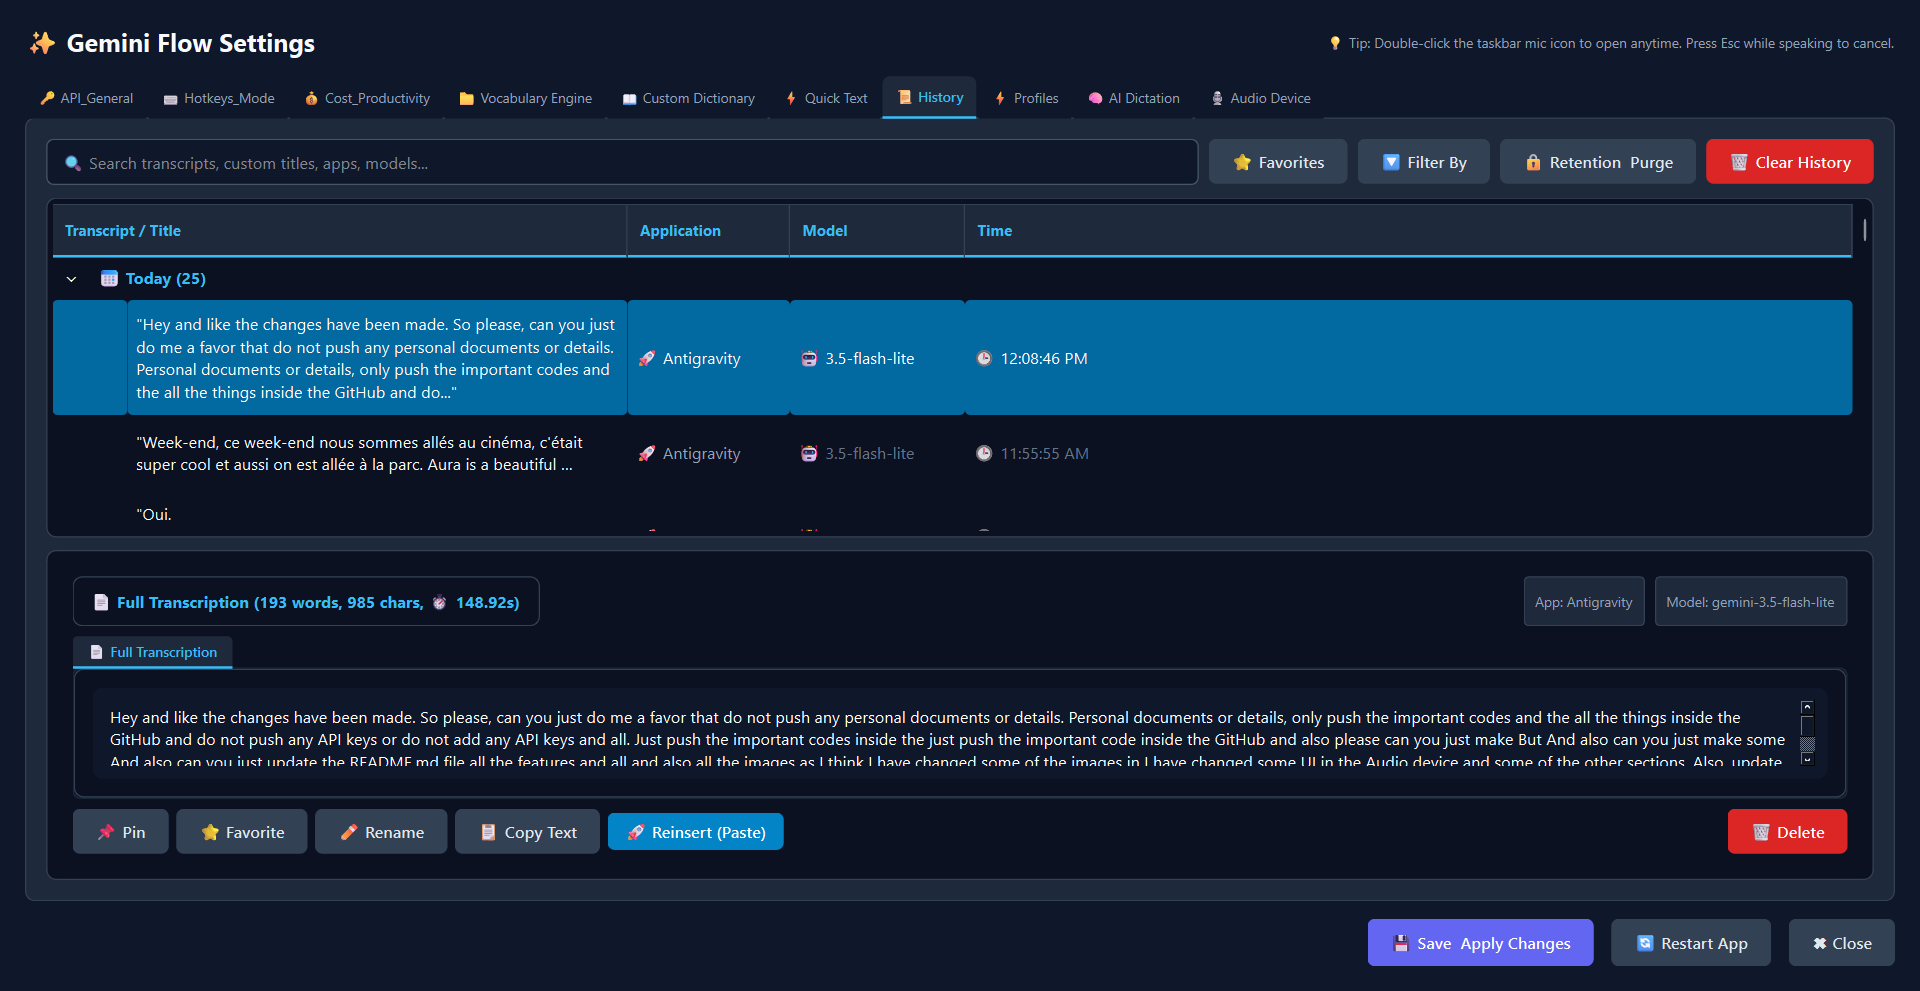
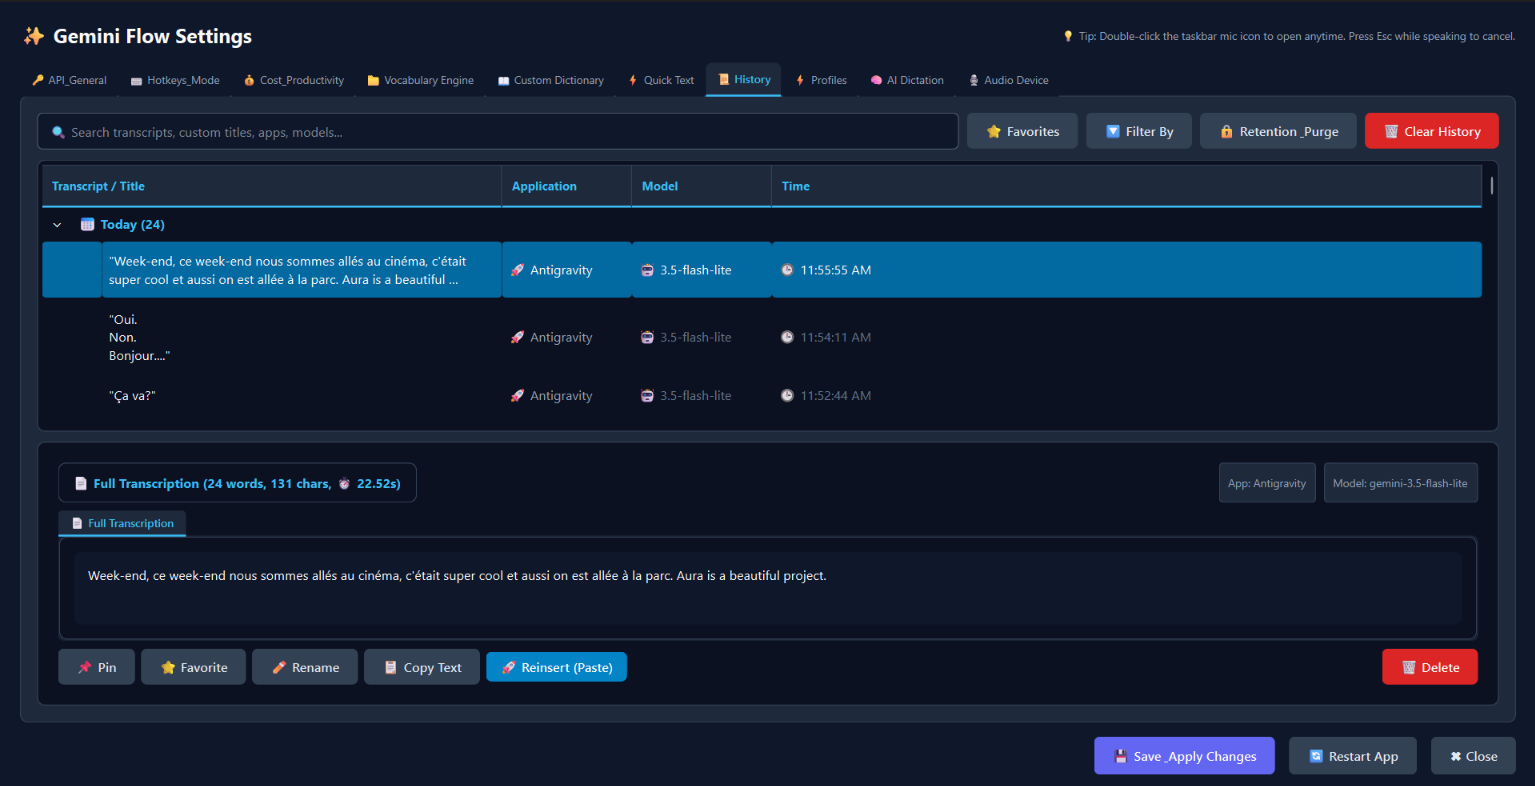
docs: update History inspection showcase image and fix GitHub system architecture Mermaid syntax

diff --git a/README.md b/README.md
@@ -163,10 +163,12 @@ Explore the core modules and visual interface of Gemini Flow:
 
 ---
 
-### 8. Searchable Dictation History & Export
+### 8. Searchable Dictation History & Inspection Center
 ![Dictation History & Search](images/07_history.png)
-> **Comprehensive Activity Log**: Search, review, and filter all previous dictations by date, active application, or AI model used.  
-> **Instant Clipboard Copy**: One-click quick-copy chips let you retrieve earlier notes and snippets effortlessly.
+> **Comprehensive Activity Log & Real-Time Audit**: Review, search, and inspect past dictations organized cleanly by date categories (e.g., `Today (24)`). Each record displays the active foreground application (e.g. `Antigravity`, `VS Code`, `Chrome`), AI model utilized (`gemini-3.5-flash-lite`), exact timestamp, and transcription snippet.  
+> **Full Transcription Inspector & Metric Analytics**: Instantly inspect full transcript text alongside word count, character count, and audio processing duration (e.g. `24 words, 131 chars, ⏱ 22.52s`).  
+> **Interactive Productivity Controls**: Dedicated one-click actions to `📌 Pin` critical notes, `⭐ Favorite` frequent dictations, `✏ Rename` custom titles, `📋 Copy Text` to clipboard, `💉 Reinsert (Paste)` directly into your active cursor location, or `🗑 Delete`.  
+> **Data Governance & Retention Management**: Features instant multi-field search across transcripts, custom titles, target apps, and models, coupled with `🔒 Retention_Purge` automated data cleanup policies and on-demand history clearance.
 
 ---
 
@@ -189,49 +191,52 @@ Explore the core modules and visual interface of Gemini Flow:
 ![Audio Device & Multilingual Catalog](images/11_audio_device.png)
 > **210+ World Languages Catalog & Real-Time Fuzzy Search**: Select any subset of 210+ global languages or activate English Only (default). Features instant phonetic and fuzzy search (e.g. typing *"marathi"*, *"latn"*, or *"romance"* immediately finds the match), 7 regional tabs (Indian & South Asian, Major European, East Asian, Middle Eastern, African, Americas), quick selection actions (*Select All / Universal Mode*, *English Only*, *Clear All*), and active language tag chips with one-click removal.  
 > **Dual Recognition & Zero Romanization Guarantee**: If speaking in selected languages, transcribes directly in authentic native script (Gujarati script `ગુજરાતી`, German with umlauts, Spanish with inverted punctuation `¿`/`¡`, Italian, Devanagari for Hindi/Marathi). If speaking unselected languages or in English-only mode, intelligently translates the spoken thought directly into English prose, completely forbidding broken Romanized transliterations (e.g. zero `"majama"`, `"kem cho"`, or `"kya chal raha hai"`).  
-> **Acoustic Noise Reduction & Ceiling Fan Gate**: Features a real-time 85 Hz Butterworth high-pass filter that eliminates ceiling fan drone and motor hum, coupled with an adaptive RMS Noise Gate (<5ms silence interception).  
+> **Acoustic Noise Reduction & Ceiling Fan Gate**: Features a real-time 85 Hz Butterworth high-pass filter that eliminates ceiling fan drone and motor hum, coupled with an adaptive RMS Noise Gate (Sub-5ms silence interception).  
 > **Local Offline Speech Recognition Fallback (Whisper AI)**: Built-in faster-whisper CTranslate2 int8 engine that auto-activates when offline or when cloud API quotas are exhausted, providing 100% private on-device transcription.
 
 ---
 
 ## 🏗 System Architecture
 
+![Gemini Flow System Architecture Blueprint](Gemini%20Flow%20AI%20Workspace%20Poster.png)
+> **Full High-Resolution Architecture Blueprint**: End-to-end multi-tiered topography covering real-time PortAudio driver capture, 85Hz Butterworth DSP fan filtering, dual-engine Win32 kernel hotkeys, dynamic model load-balancing, 210+ multilingual prompt conditioning, and synthetic keystroke injection.
+
 ```mermaid
 flowchart TD
-    subgraph Audio ["1. Audio Capture & DSP Engine"]
+    subgraph Audio ["1. Audio Capture and DSP Engine"]
         A["🎤 Microphone Hardware Input"] --> B["🎧 85Hz Butterworth High-Pass Filter"]
-        B --> C["🔇 Adaptive RMS Noise Gate (<5ms Silence Interception)"]
+        B --> C["🔇 Adaptive RMS Noise Gate (Sub-5ms Silence Interception)"]
         C --> D["📦 Low-Latency Audio Stream Buffer"]
         D --> E["⚡ Real-Time Background Rolling Slices (22s)"]
     end
 
-    subgraph Routing ["2. Routing & Model Intelligence"]
-        E --> F{"Connection & Quota Check"}
-        F -->|"Online (Keep-Alive TLS)"| G["🚀 Google Gemini Engine (3.5 Lite / 3.6 Flash)"]
-        F -->|"Offline or 429 Quota"| H["💻 Local Whisper AI (int8 CPU Fallback)"]
+    subgraph Routing ["2. Routing and Model Intelligence"]
+        E --> F{"Connection and Quota Check"}
+        F -->|"Online Keep-Alive TLS"| G["🚀 Google Gemini Engine (3.5 Lite or 3.6 Flash)"]
+        F -->|"Offline or Quota Limit"| H["💻 Local Whisper AI (int8 CPU Fallback)"]
         
         G --> I["🧠 Intelligent Load Balancer"]
-        I -->|"Fast Speech Dictation (<1.5s)"| J["🎙 gemini-3.5-flash-lite"]
-        I -->|"Prompt & Polish"| K["⚡ gemini-3.6-flash"]
+        I -->|"Fast Speech Dictation (Sub-1.5s)"| J["🎙 gemini-3.5-flash-lite"]
+        I -->|"Prompt and Polish"| K["⚡ gemini-3.6-flash"]
         I -->|"Resilient Auto-Failover"| L["🔄 Multi-Model Failover (2.5s)"]
     end
 
-    subgraph Intelligence ["3. Multilingual Intelligence & Showcase Combos (A–F)"]
+    subgraph Intelligence ["3. Multilingual Intelligence and Showcase Combos (A-F)"]
         J --> M["🌐 210+ World Languages Selection Engine"]
         K --> M
         L --> M
         H --> M
         M --> N{"Active Language Mode"}
-        N -->|"English Only (Default)"| O1["🇺🇸 Intelligent English Translation\n(Zero Romanization Guarantee)"]
-        N -->|"Selected Regional Languages"| O2["✍ Authentic Native Script Transcription\n(Gujarati, Devanagari, German, Spanish, etc.)"]
-        O1 --> P["📚 Custom Vocabulary & Phonetic Sound-Alikes"]
+        N -->|"English Only Mode"| O1["🇺🇸 Intelligent English Translation<br/>(Zero Romanization Guarantee)"]
+        N -->|"Selected Regional Languages"| O2["✍ Authentic Native Script Transcription<br/>(Gujarati, Devanagari, German, Spanish, etc.)"]
+        O1 --> P["📚 Custom Vocabulary and Phonetic Sound-Alikes"]
         O2 --> P
-        P --> Q["🎛 Reactive Combination Showcase (A–F)"]
-        Q --> R["✨ Formatted, Polished & Structured Text"]
+        P --> Q["🎛 Reactive Combination Showcase (A through F)"]
+        Q --> R["✨ Formatted, Polished and Structured Text"]
     end
 
     subgraph Injection ["4. Windows OS Integration"]
-        R --> S["⌨ Win32 Keystroke & Clipboard Injector"]
+        R --> S["⌨ Win32 Keystroke and Clipboard Injector"]
         S --> T["🖥 Active Cursor Focus Location (Sub-2s Turnaround)"]
     end
 ```
